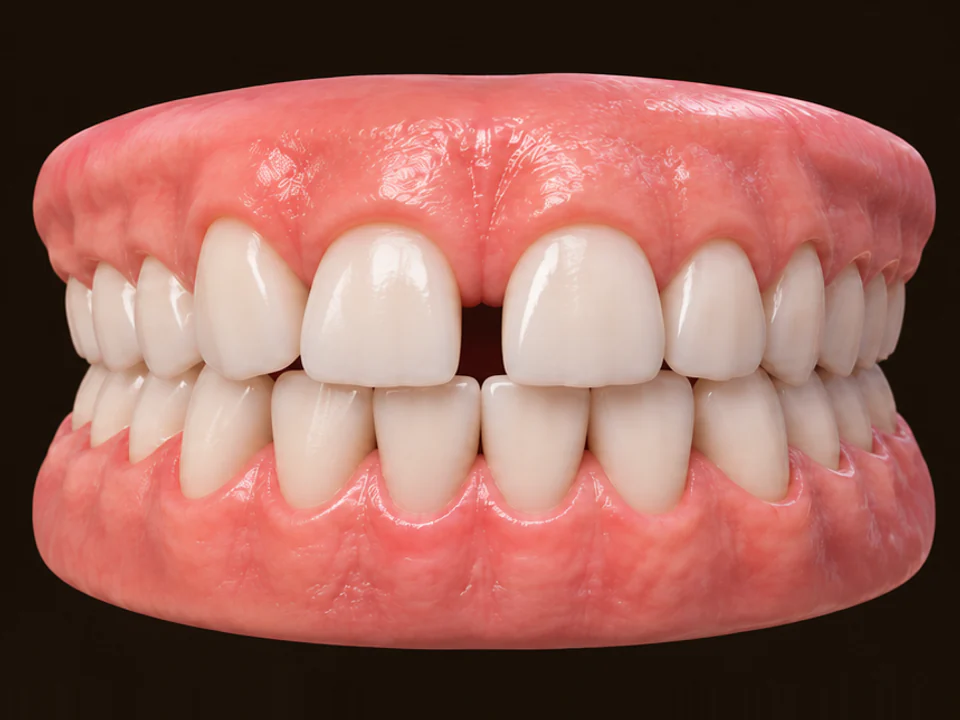
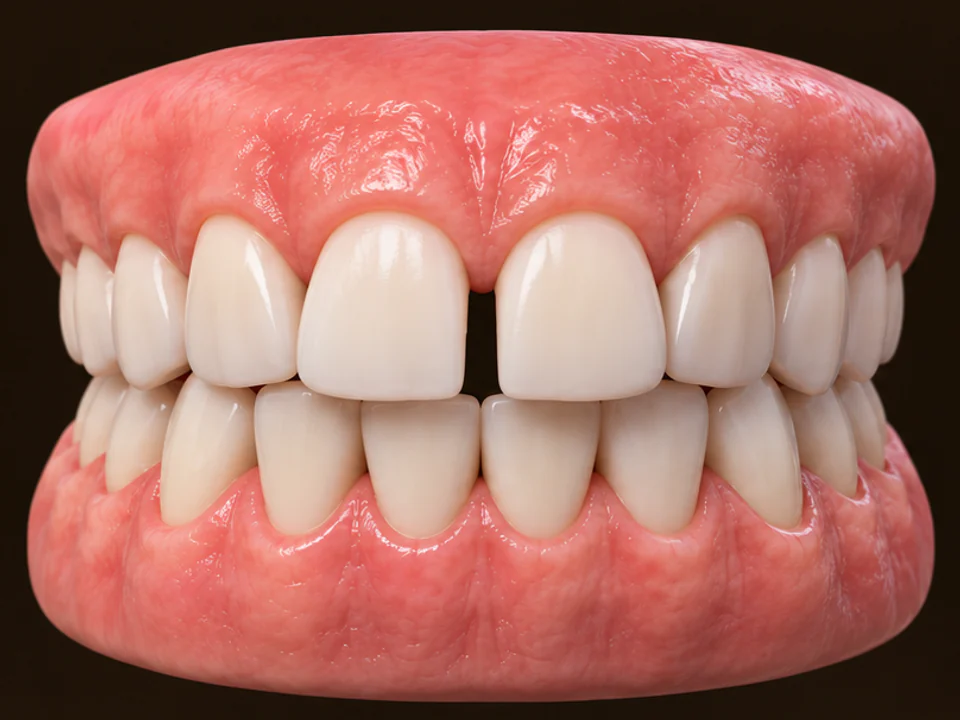
Update landing content and treatment visuals

diff --git a/index.html b/index.html
@@ -80,11 +80,11 @@ l22.2402 -22.2402c12.2803 -12.29 12.2803 -32.2002 0 -44.4795z"/></symbol>
       <div class="hero__conteudo">
         <div class="marca">
           <img class="marca__monograma" src="assets/img/marca/monograma-pp.webp" alt="Monograma Patrícia Peclat" width="240" height="240">
-          <svg class="marca__nome" xmlns="http://www.w3.org/2000/svg" viewBox="0 0 660 124" role="img" aria-label="Patrícia Peclat, Odontologia e Estética Facial"><defs><linearGradient id="ppOuroTopo" x1="0" y1="0" x2="1" y2="1"><stop offset="0" stop-color="#E4D8A8"/><stop offset=".5" stop-color="#CCC084"/><stop offset="1" stop-color="#A8894E"/></linearGradient></defs><line x1="1" y1="12" x2="1" y2="112" stroke="#CCC084" stroke-opacity=".55" stroke-width="1.5"/><text x="30" y="64" font-family="Cormorant Garamond, Georgia, serif" font-size="50" font-weight="600" letter-spacing="6" fill="url(#ppOuroTopo)">PATRICIA PECLAT</text><text x="32" y="101" font-family="Montserrat, Arial, sans-serif" font-size="15" font-weight="500" letter-spacing="4.4" fill="#E4D8A8" fill-opacity=".85">ODONTOLOGIA E ESTÉTICA FACIAL</text></svg>
+          <svg class="marca__nome" xmlns="http://www.w3.org/2000/svg" viewBox="0 0 760 124" role="img" aria-label="Clínica Patrícia Peclat, Odontologia e Estética Facial"><defs><linearGradient id="ppOuroTopo" x1="0" y1="0" x2="1" y2="1"><stop offset="0" stop-color="#E4D8A8"/><stop offset=".5" stop-color="#CCC084"/><stop offset="1" stop-color="#A8894E"/></linearGradient></defs><line x1="1" y1="12" x2="1" y2="112" stroke="#CCC084" stroke-opacity=".55" stroke-width="1.5"/><text x="30" y="66" textLength="722" lengthAdjust="spacing" font-family="Cormorant Garamond, Georgia, serif" font-size="46" font-weight="600" fill="url(#ppOuroTopo)">CLÍNICA PATRÍCIA PECLAT</text><text x="32" y="101" font-family="Montserrat, Arial, sans-serif" font-size="15" font-weight="500" letter-spacing="4.4" fill="#E4D8A8" fill-opacity=".85">ODONTOLOGIA E ESTÉTICA FACIAL</text></svg>
         </div>
         <h1 class="hero__titulo">Seu novo sorriso com a discrição dos alinhadores transparentes</h1>
         <p class="hero__texto">Com o sistema&nbsp;<b>Invisalign</b>&nbsp;e planejamento digital, a Dra. Patrícia Peclat conduz o seu tratamento de forma personalizada, com acompanhamento em cada etapa.</p>
-        <a class="botao" href="https://wa.me/5521998409913?text=Ol%C3%A1!%20Vim%20pelo%20site%20da%20Dra.%20Patr%C3%ADcia%20Peclat%20e%20gostaria%20de%20saber%20mais%20sobre%20o%20tratamento%20com%20Invisalign." target="_blank" rel="noopener"><svg class="icone icone--whatsapp" aria-hidden="true"><use href="#i-whatsapp"/></svg>Agende sua avaliação</a>
+        <a class="botao" href="https://wa.me/5521998409913?text=Ol%C3%A1!%20Conheci%20a%20Cl%C3%ADnica%20Patr%C3%ADcia%20Peclat%20pelo%20site%20e%20gostaria%20de%20agendar%20uma%20avalia%C3%A7%C3%A3o%20para%20saber%20se%20o%20Invisalign%20%C3%A9%20indicado%20para%20o%20meu%20caso." data-cta="hero-agendar" target="_blank" rel="noopener"><svg class="icone icone--whatsapp" aria-hidden="true"><use href="#i-whatsapp"/></svg>Agende sua avaliação</a>
       </div>
     </div>
   </section>
@@ -110,7 +110,7 @@ l22.2402 -22.2402c12.2803 -12.29 12.2803 -32.2002 0 -44.4795z"/></symbol>
         <article class="card-comparativo">
           <h3 class="subtitulo">Aparelho convencional</h3>
           <div class="card-comparativo__midia">
-            <img class="card-comparativo__img card-comparativo__img--larga" src="assets/img/comparativo/aparelho-convencional.webp" alt="Aparelho ortodôntico fixo metálico, com bráquetes e fio" width="1100" height="373" loading="lazy">
+            <img class="card-comparativo__img card-comparativo__img--foto" src="assets/img/comparativo/aparelho-convencional-sorriso.webp" alt="Sorriso com aparelho ortodôntico fixo metálico, com bráquetes e fio" width="1100" height="688" loading="lazy">
           </div>
           <ul class="lista-icones lista-icones--negativa">
             <li><svg class="icone icone--x" aria-hidden="true"><use href="#i-x"/></svg>Bráquetes e fios aparentes</li>
@@ -205,7 +205,7 @@ l22.2402 -22.2402c12.2803 -12.29 12.2803 -32.2002 0 -44.4795z"/></symbol>
   <section class="faixa">
     <div class="container faixa__conteudo">
       <h2 class="titulo titulo--centro">Um tratamento ortodôntico discreto, planejado para o seu sorriso</h2>
-      <a class="botao botao--escuro" href="https://wa.me/5521998409913?text=Ol%C3%A1!%20Vim%20pelo%20site%20da%20Dra.%20Patr%C3%ADcia%20Peclat%20e%20gostaria%20de%20saber%20mais%20sobre%20o%20tratamento%20com%20Invisalign." target="_blank" rel="noopener"><svg class="icone icone--whatsapp" aria-hidden="true"><use href="#i-whatsapp"/></svg>Quero saber se Invisalign é para mim</a>
+      <a class="botao botao--escuro" href="https://wa.me/5521998409913?text=Ol%C3%A1!%20Vi%20no%20site%20os%20diferentes%20casos%20que%20podem%20ser%20tratados%20com%20Invisalign%20e%20gostaria%20de%20saber%20se%20o%20meu%20caso%20tamb%C3%A9m%20pode%20ter%20indica%C3%A7%C3%A3o." data-cta="casos-indicacao" target="_blank" rel="noopener"><svg class="icone icone--whatsapp" aria-hidden="true"><use href="#i-whatsapp"/></svg>Quero saber se Invisalign é para mim</a>
     </div>
   </section>
 
@@ -219,7 +219,28 @@ l22.2402 -22.2402c12.2803 -12.29 12.2803 -32.2002 0 -44.4795z"/></symbol>
         <img src="assets/img/depoimentos/depoimento-07.webp" alt="Paciente com a Dra. Patrícia Peclat" width="720" height="900" loading="lazy">
         <img src="assets/img/depoimentos/depoimento-01.webp" alt="Paciente com a Dra. Patrícia Peclat" width="720" height="900" loading="lazy">
       </div>
-      <div class="acao"><a class="botao" href="https://wa.me/5521998409913?text=Ol%C3%A1!%20Vim%20pelo%20site%20da%20Dra.%20Patr%C3%ADcia%20Peclat%20e%20gostaria%20de%20saber%20mais%20sobre%20o%20tratamento%20com%20Invisalign." target="_blank" rel="noopener"><svg class="icone icone--whatsapp" aria-hidden="true"><use href="#i-whatsapp"/></svg>Agendar minha avaliação</a></div>
+      <div class="acao"><a class="botao" href="https://wa.me/5521998409913?text=Ol%C3%A1!%20Vi%20alguns%20pacientes%20apresentados%20no%20site%20e%20gostaria%20de%20agendar%20minha%20avalia%C3%A7%C3%A3o%20com%20a%20Dra.%20Patr%C3%ADcia." data-cta="depoimentos-agendar" target="_blank" rel="noopener"><svg class="icone icone--whatsapp" aria-hidden="true"><use href="#i-whatsapp"/></svg>Agendar minha avaliação</a></div>
+    </div>
+  </section>
+
+  <!-- Planejamento digital com iTero -->
+  <section class="secao secao--escura-suave itero" id="itero">
+    <div class="container">
+      <div class="itero__painel">
+        <div class="itero__visual" aria-hidden="true">
+          <svg class="itero__icone" viewBox="0 0 120 120">
+            <circle cx="60" cy="60" r="56" fill="none" stroke="currentColor" stroke-opacity=".35" stroke-width="1.2"/>
+            <circle cx="60" cy="60" r="44" fill="none" stroke="currentColor" stroke-opacity=".6" stroke-width="1.2" stroke-dasharray="3 5"/>
+            <path d="M44 50c0-7 5-10.5 10.2-9.5 2.1.4 3 1.2 5.8 1.2s3.7-.8 5.8-1.2C71 39.5 76 43 76 50c0 6.2-2.1 10.2-3.1 16.2-.9 5.2-2.1 10.2-5.1 10.2-3.1 0-3.1-8.2-6.2-8.2h-3.2c-3.1 0-3.1 8.2-6.2 8.2-3 0-4.2-5-5.1-10.2C46.1 60.2 44 56.2 44 50z" fill="none" stroke="currentColor" stroke-width="2.2" stroke-linejoin="round"/>
+            <path class="itero__varredura" d="M30 58h60" stroke="currentColor" stroke-width="2" stroke-linecap="round"/>
+          </svg>
+        </div>
+        <div class="itero__texto">
+          <p class="itero__rotulo">Planejamento digital</p>
+          <h2 class="titulo">Visualize seu tratamento desde a primeira consulta</h2>
+          <p>Com o scanner iTero, fazemos o escaneamento digital dos seus dentes e usamos essas informações no planejamento individualizado do tratamento com Invisalign. Assim, você consegue entender melhor as etapas previstas antes de começar.</p>
+        </div>
+      </div>
     </div>
   </section>
 
@@ -256,7 +277,7 @@ l22.2402 -22.2402c12.2803 -12.29 12.2803 -32.2002 0 -44.4795z"/></symbol>
         </div>
       </div>
 
-      <div class="acao acao--etapas"><a class="botao" href="https://wa.me/5521998409913?text=Ol%C3%A1!%20Vim%20pelo%20site%20da%20Dra.%20Patr%C3%ADcia%20Peclat%20e%20gostaria%20de%20saber%20mais%20sobre%20o%20tratamento%20com%20Invisalign." target="_blank" rel="noopener"><svg class="icone icone--whatsapp" aria-hidden="true"><use href="#i-whatsapp"/></svg>Agendar minha avaliação</a></div>
+      <div class="acao acao--etapas"><a class="botao" href="https://wa.me/5521998409913?text=Ol%C3%A1!%20Vi%20como%20funciona%20o%20processo%20de%20avalia%C3%A7%C3%A3o%2C%20planejamento%20digital%20e%20acompanhamento.%20Gostaria%20de%20agendar%20minha%20primeira%20avalia%C3%A7%C3%A3o." data-cta="etapas-agendar" target="_blank" rel="noopener"><svg class="icone icone--whatsapp" aria-hidden="true"><use href="#i-whatsapp"/></svg>Agendar minha avaliação</a></div>
     </div>
   </section>
 
@@ -266,7 +287,7 @@ l22.2402 -22.2402c12.2803 -12.29 12.2803 -32.2002 0 -44.4795z"/></symbol>
       <div class="criancas__texto">
         <h2 class="titulo">Invisalign também para crianças e adolescentes</h2>
         <p>A Dra. Patrícia atende crianças e adolescentes com Invisalign. O sistema tem soluções para diferentes faixas etárias, e a indicação depende da avaliação individual.</p>
-        <a class="botao botao--contorno" href="https://wa.me/5521998409913?text=Ol%C3%A1!%20Vim%20pelo%20site%20da%20Dra.%20Patr%C3%ADcia%20Peclat%20e%20gostaria%20de%20saber%20mais%20sobre%20o%20tratamento%20com%20Invisalign." target="_blank" rel="noopener"><svg class="icone icone--whatsapp" aria-hidden="true"><use href="#i-whatsapp"/></svg>Quero conhecer o Invisalign</a>
+        <a class="botao botao--contorno" href="https://wa.me/5521998409913?text=Ol%C3%A1!%20Vi%20que%20a%20cl%C3%ADnica%20tamb%C3%A9m%20atende%20crian%C3%A7as%20e%20adolescentes%20com%20Invisalign.%20Gostaria%20de%20entender%20se%20essa%20op%C3%A7%C3%A3o%20pode%20ser%20indicada%20para%20meu%20filho%20ou%20minha%20filha." data-cta="kids-invisalign" target="_blank" rel="noopener"><svg class="icone icone--whatsapp" aria-hidden="true"><use href="#i-whatsapp"/></svg>Quero conhecer o Invisalign</a>
       </div>
       <figure class="criancas__foto">
         <img src="assets/img/criancas/crianca-dra-patricia-mobile.webp" alt="Paciente adolescente com a Dra. Patrícia Peclat" width="1200" height="857" loading="lazy">
@@ -283,7 +304,7 @@ l22.2402 -22.2402c12.2803 -12.29 12.2803 -32.2002 0 -44.4795z"/></symbol>
         <li class="card-beneficio card-beneficio--destaque"><svg class="icone icone--higiene" aria-hidden="true"><use href="#i-higiene"/></svg><p>Removível para alimentação e higiene, conforme orientação</p></li>
         <li class="card-beneficio"><svg class="icone icone--cuidado" aria-hidden="true"><use href="#i-cuidado"/></svg><p>Atendimento humanizado e acompanhamento próximo</p></li>
       </ul>
-      <div class="acao"><a class="botao" href="https://wa.me/5521998409913?text=Ol%C3%A1!%20Vim%20pelo%20site%20da%20Dra.%20Patr%C3%ADcia%20Peclat%20e%20gostaria%20de%20saber%20mais%20sobre%20o%20tratamento%20com%20Invisalign." target="_blank" rel="noopener"><svg class="icone icone--whatsapp" aria-hidden="true"><use href="#i-whatsapp"/></svg>Agendar minha avaliação</a></div>
+      <div class="acao"><a class="botao" href="https://wa.me/5521998409913?text=Ol%C3%A1!%20Gostei%20da%20proposta%20dos%20alinhadores%20Invisalign%20e%20gostaria%20de%20agendar%20uma%20avalia%C3%A7%C3%A3o%20para%20entender%20as%20possibilidades%20para%20o%20meu%20sorriso." data-cta="beneficios-agendar" target="_blank" rel="noopener"><svg class="icone icone--whatsapp" aria-hidden="true"><use href="#i-whatsapp"/></svg>Agendar minha avaliação</a></div>
     </div>
   </section>
 
@@ -310,7 +331,7 @@ l22.2402 -22.2402c12.2803 -12.29 12.2803 -32.2002 0 -44.4795z"/></symbol>
     <div class="container duas-colunas">
       <div class="faixa__texto">
         <h2 class="titulo">Seu sorriso merece um planejamento pensado para você</h2>
-        <a class="botao botao--escuro" href="https://wa.me/5521998409913?text=Ol%C3%A1!%20Vim%20pelo%20site%20da%20Dra.%20Patr%C3%ADcia%20Peclat%20e%20gostaria%20de%20saber%20mais%20sobre%20o%20tratamento%20com%20Invisalign." target="_blank" rel="noopener"><svg class="icone icone--whatsapp" aria-hidden="true"><use href="#i-whatsapp"/></svg>Falar sobre meu tratamento</a>
+        <a class="botao botao--escuro" href="https://wa.me/5521998409913?text=Ol%C3%A1!%20Estou%20considerando%20iniciar%20um%20tratamento%20com%20Invisalign%20e%20gostaria%20de%20conversar%20com%20a%20equipe%20sobre%20planejamento%2C%20acompanhamento%20e%20pr%C3%B3ximos%20passos." data-cta="tratamento-conversar" target="_blank" rel="noopener"><svg class="icone icone--whatsapp" aria-hidden="true"><use href="#i-whatsapp"/></svg>Falar sobre meu tratamento</a>
       </div>
       <figure class="faixa__foto">
         <img src="assets/img/invisalign/alinhador-estojo.webp" alt="Alinhador Invisalign e estojo" width="1000" height="563" loading="lazy">
@@ -360,8 +381,8 @@ l22.2402 -22.2402c12.2803 -12.29 12.2803 -32.2002 0 -44.4795z"/></symbol>
     <div class="container duas-colunas">
       <div class="instagram__texto">
         <h2 class="titulo">Acompanhe no Instagram</h2>
-        <a class="botao botao--contorno" href="https://www.instagram.com/dra.peclatpatricia" target="_blank" rel="noopener"><svg class="icone icone--instagram" aria-hidden="true"><use href="#i-instagram"/></svg>dra.peclatpatricia</a>
-        <a class="botao botao--escuro" href="https://wa.me/5521998409913?text=Ol%C3%A1!%20Vim%20pelo%20site%20da%20Dra.%20Patr%C3%ADcia%20Peclat%20e%20gostaria%20de%20saber%20mais%20sobre%20o%20tratamento%20com%20Invisalign." target="_blank" rel="noopener"><svg class="icone icone--whatsapp" aria-hidden="true"><use href="#i-whatsapp"/></svg>Fale com nossa equipe</a>
+        <a class="botao botao--contorno" href="https://www.instagram.com/clinicapatriciapeclat?stkn=c3I1M2owMnJibXl4" target="_blank" rel="noopener"><svg class="icone icone--instagram" aria-hidden="true"><use href="#i-instagram"/></svg>clinicapatriciapeclat</a>
+        <a class="botao botao--escuro" href="https://wa.me/5521998409913?text=Ol%C3%A1!%20Vim%20pelo%20site%20da%20Cl%C3%ADnica%20Patr%C3%ADcia%20Peclat%20e%20gostaria%20de%20falar%20com%20a%20equipe.%20Tenho%20algumas%20d%C3%BAvidas%20antes%20de%20agendar." data-cta="equipe-whatsapp" target="_blank" rel="noopener"><svg class="icone icone--whatsapp" aria-hidden="true"><use href="#i-whatsapp"/></svg>Fale com nossa equipe</a>
       </div>
       <figure class="instagram__foto">
         <img src="assets/img/instagram/instagram-mosaico.webp" alt="Momentos no consultório da Dra. Patrícia Peclat" width="890" height="854" loading="lazy">
@@ -397,8 +418,8 @@ l22.2402 -22.2402c12.2803 -12.29 12.2803 -32.2002 0 -44.4795z"/></symbol>
       <div>
         <h2 class="subtitulo">Contatos</h2>
         <ul class="lista-pontos">
-          <li><a href="https://www.instagram.com/dra.peclatpatricia" target="_blank" rel="noopener">@dra.peclatpatricia</a></li>
-          <li><a href="https://wa.me/5521998409913?text=Ol%C3%A1!%20Vim%20pelo%20site%20da%20Dra.%20Patr%C3%ADcia%20Peclat%20e%20gostaria%20de%20saber%20mais%20sobre%20o%20tratamento%20com%20Invisalign." target="_blank" rel="noopener">(21) 99840-9913</a></li>
+          <li><a href="https://www.instagram.com/clinicapatriciapeclat?stkn=c3I1M2owMnJibXl4" target="_blank" rel="noopener">@clinicapatriciapeclat</a></li>
+          <li><a href="https://wa.me/5521998409913?text=Ol%C3%A1!%20Encontrei%20o%20contato%20da%20Cl%C3%ADnica%20Patr%C3%ADcia%20Peclat%20pelo%20site%20e%20gostaria%20de%20receber%20mais%20informa%C3%A7%C3%B5es." data-cta="rodape-whatsapp" target="_blank" rel="noopener">(21) 99840-9913</a></li>
           <li><a href="https://maps.app.goo.gl/ZFajPx1Juam1gZva6" target="_blank" rel="noopener">R. Dr. Felíciano Sodré, 78, Sala 1114, Centro, São Gonçalo, RJ, 24440-440</a></li>
           <li><a href="mailto:drapeclatpatricia@gmail.com">drapeclatpatricia@gmail.com</a></li>
         </ul>
@@ -412,7 +433,7 @@ l22.2402 -22.2402c12.2803 -12.29 12.2803 -32.2002 0 -44.4795z"/></symbol>
   <div class="container">
     <div class="rodape__marca">
       <img src="assets/img/marca/monograma-pp.webp" alt="" width="240" height="240" loading="lazy">
-      <svg class="marca__nome" xmlns="http://www.w3.org/2000/svg" viewBox="0 0 660 124" role="img" aria-label="Patrícia Peclat, Odontologia e Estética Facial"><defs><linearGradient id="ppOuroRodape" x1="0" y1="0" x2="1" y2="1"><stop offset="0" stop-color="#E4D8A8"/><stop offset=".5" stop-color="#CCC084"/><stop offset="1" stop-color="#A8894E"/></linearGradient></defs><line x1="1" y1="12" x2="1" y2="112" stroke="#CCC084" stroke-opacity=".55" stroke-width="1.5"/><text x="30" y="64" font-family="Cormorant Garamond, Georgia, serif" font-size="50" font-weight="600" letter-spacing="6" fill="url(#ppOuroRodape)">PATRICIA PECLAT</text><text x="32" y="101" font-family="Montserrat, Arial, sans-serif" font-size="15" font-weight="500" letter-spacing="4.4" fill="#E4D8A8" fill-opacity=".85">ODONTOLOGIA E ESTÉTICA FACIAL</text></svg>
+      <svg class="marca__nome" xmlns="http://www.w3.org/2000/svg" viewBox="0 0 760 124" role="img" aria-label="Clínica Patrícia Peclat, Odontologia e Estética Facial"><defs><linearGradient id="ppOuroRodape" x1="0" y1="0" x2="1" y2="1"><stop offset="0" stop-color="#E4D8A8"/><stop offset=".5" stop-color="#CCC084"/><stop offset="1" stop-color="#A8894E"/></linearGradient></defs><line x1="1" y1="12" x2="1" y2="112" stroke="#CCC084" stroke-opacity=".55" stroke-width="1.5"/><text x="30" y="66" textLength="722" lengthAdjust="spacing" font-family="Cormorant Garamond, Georgia, serif" font-size="46" font-weight="600" fill="url(#ppOuroRodape)">CLÍNICA PATRÍCIA PECLAT</text><text x="32" y="101" font-family="Montserrat, Arial, sans-serif" font-size="15" font-weight="500" letter-spacing="4.4" fill="#E4D8A8" fill-opacity=".85">ODONTOLOGIA E ESTÉTICA FACIAL</text></svg>
     </div>
     <p class="rodape__cro">Cirurgiã-dentista · CRO-RJ 21550</p>
     <p class="rodape__copy">© 2026 Dra. Patrícia Peclat. Todos os direitos reservados.</p>

diff --git a/assets/css/styles.css b/assets/css/styles.css
@@ -202,6 +202,14 @@ ul { margin: 0; padding: 0; list-style: none; }
 .card-comparativo__img { width: auto; height: auto; object-fit: contain; }
 .card-comparativo__img--larga { max-width: 96%; max-height: 60%; }
 .card-comparativo__img--alta { max-width: 70%; max-height: 90%; }
+/* Foto do sorriso com aparelho: preenche a mesma área do card vizinho e se dissolve nas bordas */
+.card-comparativo__img--foto {
+  width: 100%; height: 100%;
+  object-fit: cover; object-position: 50% 50%;
+  border-radius: var(--radius-sm);
+  -webkit-mask-image: radial-gradient(ellipse 78% 82% at 50% 50%, #000 58%, transparent 100%);
+  mask-image: radial-gradient(ellipse 78% 82% at 50% 50%, #000 58%, transparent 100%);
+}
 
 /* --- Casos tratáveis (comparadores) --- */
 .casos__intro { max-width: 720px; margin: 20px auto 0; text-align: center; }
@@ -385,6 +393,24 @@ ul { margin: 0; padding: 0; list-style: none; }
 .rodape__cro { margin-bottom: 18px; color: #A79E8F; font-size: 13px; letter-spacing: 0.08em; }
 .rodape__copy { color: #6F685E; font-size: 12px; }
 
+/* --- Planejamento digital (iTero) --- */
+.itero__painel {
+  display: grid; grid-template-columns: 220px 1fr; gap: 48px; align-items: center;
+  max-width: 960px; margin-inline: auto;
+  padding: 48px 56px;
+  background: linear-gradient(135deg, #26211D 0%, var(--panel) 60%);
+  border: 1px solid var(--line-strong);
+  border-radius: var(--radius-md);
+  box-shadow: var(--shadow-dark);
+}
+.itero__visual { display: flex; justify-content: center; }
+.itero__icone { width: 180px; height: 180px; color: var(--gold); }
+.itero__varredura { animation: varredura 3.2s ease-in-out infinite; }
+@keyframes varredura { 0%, 100% { transform: translateY(-14px); opacity: .25; } 50% { transform: translateY(18px); opacity: 1; } }
+@media (prefers-reduced-motion: reduce) { .itero__varredura { animation: none; } }
+.itero__rotulo { margin-bottom: 12px; color: var(--gold-light); font-size: 13px; letter-spacing: 0.14em; text-transform: uppercase; }
+.itero__texto .titulo { margin-bottom: 20px; }
+
 /* ============ 5. Responsivo ============ */
 
 /* Tablet e celular */
@@ -448,7 +474,9 @@ ul { margin: 0; padding: 0; list-style: none; }
   .hero__conteudo { padding: 10px 4px 0; }
   .marca { gap: 14px; }
   .marca__monograma { width: 76px; height: 76px; }
-  .marca__nome { height: 44px; }
+  .marca__nome { height: 38px; }
+  .itero__painel { grid-template-columns: 1fr; gap: 24px; padding: 36px 24px; text-align: center; }
+  .itero__icone { width: 132px; height: 132px; }
   .hero__titulo { margin-top: 20px; }
   .hero__texto { font-size: 15.5px; }
 
@@ -499,13 +527,13 @@ ul { margin: 0; padding: 0; list-style: none; }
   .contatos .duas-colunas { row-gap: 40px; }
 
   .rodape__marca img { width: 52px; height: 52px; }
-  .rodape__marca .marca__nome { height: 38px; }
+  .rodape__marca .marca__nome { height: 36px; }
 }
 
 @media (max-width: 380px) {
   .botao { padding: 14px 18px; font-size: 13px; letter-spacing: 0.01em; }
   .marca__monograma { width: 64px; height: 64px; }
-  .marca__nome { height: 38px; }
+  .marca__nome { height: 33px; }
   .rodape__marca .marca__nome { height: 32px; }
 }
 

diff --git a/assets/js/main.js b/assets/js/main.js
@@ -18,20 +18,22 @@
 
 /* ---------- Casos tratáveis: comparador antes/depois ----------
  * Ajuste de registro do render DEPOIS sobre o ANTES (somente translação), em pixels do
- * render de referência (960 x 720). Medido pelo centro do contorno externo do modelo.
- *   diastema 6/1, mordida cruzada 8/2, apinhamento 9/3: diferença só de posição.
- *   mordida aberta 0/0: diferença de 1 a 2 px, imperceptível.
- *   prognatismo 5/0: parte da diferença é mudança real do formato do modelo.
- *   mordida profunda 10/3: o modelo do DEPOIS é ~1% mais largo e ~2% mais alto; a sobra fica dividida.
+ * render de referência (960 x 720). Medido pelo contorno externo da arcada (topo, base e laterais):
+ * o valor centraliza o contorno do DEPOIS sobre o ANTES; quando os modelos têm larguras diferentes,
+ * a sobra fica dividida igualmente entre os dois lados.
+ *   diastema 3/0: só posição (resíduo < 1 px).
+ *   mordida cruzada 0/0, mordida aberta 1/-2, apinhamento -2/0: DEPOIS ~1–1,5% mais estreito (±4 a ±8 px).
+ *   prognatismo 1/1: DEPOIS ~2% mais estreito (±10 px nas laterais).
+ *   mordida profunda 0/-3: DEPOIS ~1% mais baixo na base (±4 px).
  */
 const RENDER_REF = { largura: 960, altura: 720 };
 const AJUSTES_3D = {
-  'diastema':         { x: 6,  y: 1 },
-  'mordida-cruzada':  { x: 8,  y: 2 },
-  'mordida-aberta':   { x: 0,  y: 0 },
-  'prognatismo':      { x: 5,  y: 0 },
-  'apinhamento':      { x: 9,  y: 3 },
-  'mordida-profunda': { x: 10, y: 3 },
+  'diastema':         { x: 3,  y: 0 },
+  'mordida-cruzada':  { x: 0,  y: 0 },
+  'mordida-aberta':   { x: 1,  y: -2 },
+  'prognatismo':      { x: 1,  y: 1 },
+  'apinhamento':      { x: -2, y: 0 },
+  'mordida-profunda': { x: 0,  y: -3 },
 };
 
 function iniciarComparador(el) {
